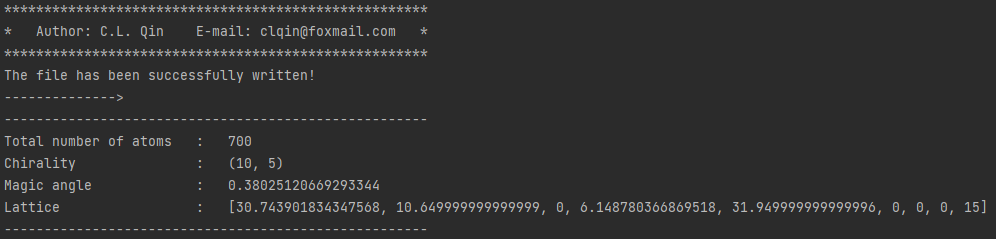
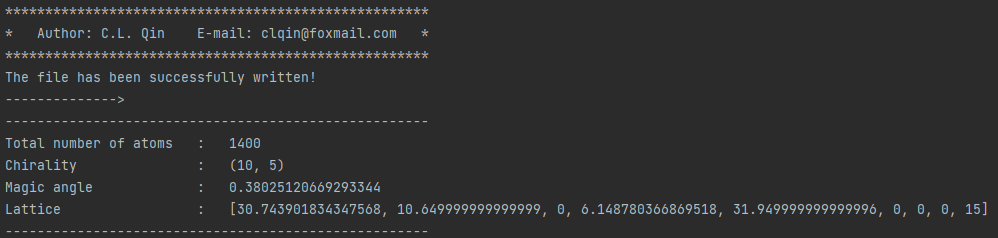
1

diff --git a/test.py b/test.py
@@ -1,0 +1,17 @@
+# from pymatsci.model import Graphene
+# gra = Graphene(15, 0)
+# gra.write_vasp('./POCSAR')
+# from pymatsci.model import Nanotube
+# model = Nanotube(10, 5, 1.42, ['C'], 5)
+# model.write_vasp('./POSCAR')
+
+from  pymatsci.model import MagicGraphene
+magic = MagicGraphene(10, 5)
+magic.write_vasp('./POSCAR')
+
+# from pymatsci.correction import ThermalCorrection
+# t = ThermalCorrection(298.15, 101325, True, 3)
+# t.free_gas_correction()
+# t.printout()
+
+

diff --git a/docs/source/usage.rst b/docs/source/usage.rst
@@ -1,19 +1,19 @@
 Usage
-^^^^^
+=====
 
 .. _installation:
 
 Installation
 ------------
 
-1.To use Pymatsci, first install pymatgen and numpy using pip:
+1.To use pymatsci, first install pymatgen and numpy using pip:
 
 .. code:: console
 
    pip install numpy
    pip install pymatgen
 
-2.Install Pymatsci
+2.Install pymatsci
 
 .. code:: pyth
 
@@ -25,14 +25,74 @@ In addition, you can also visit `testpypi`_ to download.
 
 Tutorials
 ---------
+
 This page presents a collection of tutorials.
 
 1. Nanostructure model
 >>>>>>>>>>>>>>>>>>>>>>
+
 This page provides a series of tutorials on nanotube, graphene, and
 magic graphene modeling.
 
-1.1 Graphene
+1.1 Structural information of the model
+:::::::::::::::::::::::::::::::::::
+
+Both nanotubes and magic-angle graphene are built from single-layer graphene, and they have the same definition of chirality (n, m).
+
+**Graphene**
+
+Total number of atoms(N):
+
+.. math::
+
+   N = \frac{{2({n^2} + {m^2} + mn)p}}{{{g_1}}}
+
+where g1 is the greatest common divisor of n+2m and 2n+m, and p is the period.
+
+**Magic-angle graphene**
+
+Total number of atoms(N):
+
+.. math::
+
+   N = \frac{{4({n^2} + {m^2} + mn)p}}{{{g_1}}}
+
+Magic angle(𝜃):
+
+.. math::
+
+   \theta  = ar\cos \frac{{{m^2} + {n^2} + 4mn}}{{2\sqrt {{m^2} + {n^2} + mn} }}
+
+**Nanotube**
+
+Total number of atoms(N):
+
+.. math::
+
+   N = \frac{{2({n^2} + {m^2} + mn)p}}{{{g_1}}}
+
+Diameter(d):
+
+.. math::
+
+   d = \frac{{\sqrt {{m^2} + {n^2} + mn} }}{\pi }\sqrt 3 b
+
+
+where b is the atomic bond length.
+
+Total length(l):
+
+.. math::
+
+   l = \frac{{\sqrt 3 a\sqrt {{m^2} + {n^2} + mn} }}{{{g_1}}}
+
+Chirality angle(𝜃):
+
+.. math::
+
+   \theta  = ar\cos (\frac{{2n + m}}{{2\sqrt {{m^2} + {n^2} + mn} }})
+
+1.2 Graphene
 ::::::::::::
 
 **Input**
@@ -59,8 +119,8 @@ Generated model:
    :alt: 2
 
 
-1.2 Magic Grapehe
-:::::::::::::::::
+1.3 Magic-angle graphene
+::::::::::::::::::::::::
 
 **Input**
 
@@ -85,7 +145,7 @@ Generated model:
    :alt: 4
 
 
-1.2 Nanotube
+1.4 Nanotube
 ::::::::::::
 
 **Input**
@@ -109,5 +169,7 @@ Generated model:
 
 .. figure:: usage/6.png
    :alt: 6
+
+
 
  
